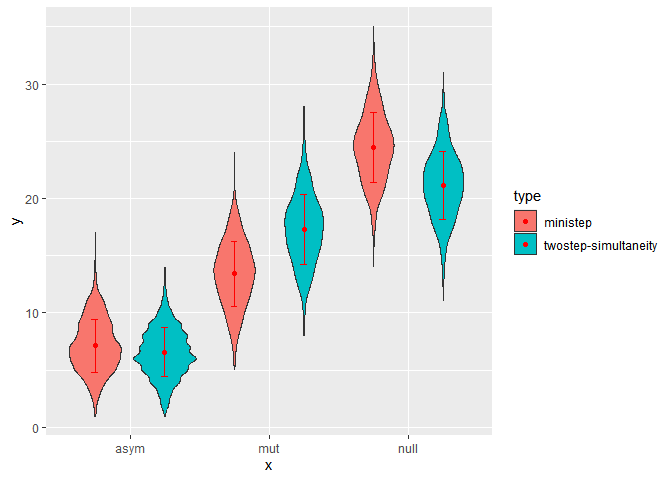
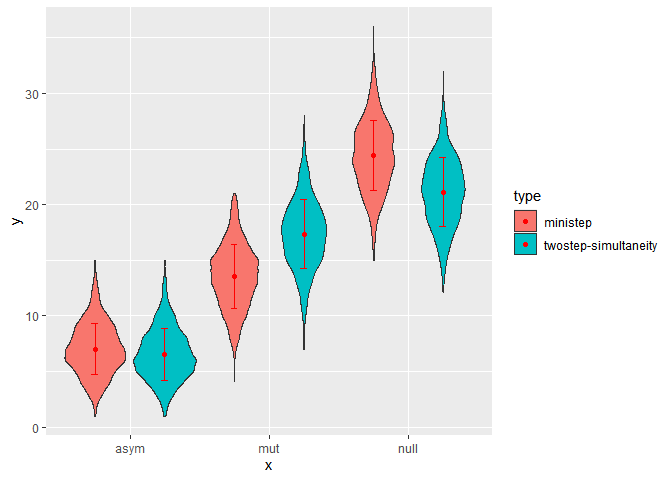
update documentation

diff --git a/README.md b/README.md
@@ -1,16 +1,16 @@
 
-# RsienaTwoStep <a href="https://jochemtolsma.github.io/RsienaTwoStep/"><img src="man/figures/logo.png" align="right" height="139" /></a>
-
 <!-- README.md is generated from README.Rmd. Please edit that file -->
 
-# RsienaTwoStep website
+<a href="https://jochemtolsma.github.io/RsienaTwoStep/"><img src="man/figures/logo.png" align="left" height="139" /></a>
+
+<br> <br> <br> <br> <br>
 
 For detailed instructions how to use the package, please see the
 [package website](https://jochemtolsma.github.io/RsienaTwoStep/).
 
 ------------------------------------------------------------------------
 
-# RsienaTwoStep
+# GOAL
 
 <!-- badges: start -->
 <!-- badges: end -->
@@ -57,7 +57,9 @@ Make sure to check out the vignettes:
 browseVignettes("RsienaTwoStep")
 ```
 
-## Example
+------------------------------------------------------------------------
+
+# Examples
 
 ABM-ministep and ABM-twostep simulations on toy data
 
@@ -66,7 +68,7 @@ library(RsienaTwoStep)
 #> Loading required package: foreach
 ```
 
-### our network
+## our network
 
 ``` r
 net1g <- igraph::graph_from_adjacency_matrix(net1, mode="directed")
@@ -79,7 +81,7 @@ plot(net1g)
 unloadNamespace("igraph") # to avoid clashes with package `sna`. 
 ```
 
-### setting up cluster
+## setting up cluster
 
 This is of course not necessary but will make the simulations a lot
 faster.
@@ -105,14 +107,12 @@ Thus if you start with a network without many (reciprocal) ties it would
 be very difficult to get more reciprocal ties in the normal ministep
 model. However, with simultaneity this should be possible.
 
-### simulate networks for three conditions
+### simulate networks for two conditions
 
 ``` r
 sims1 <- f_sims(nsims=1000, parallel=TRUE, net=net1, rate=10, statistics=list(f_degree, f_recip), parameters=c(-1,2), p2step=0, chain=FALSE) #ministep only
 
 sims2 <- f_sims(nsims=1000, parallel=TRUE, net=net1, rate=10, statistics=list(f_degree, f_recip), parameters=c(-1,2), p2step=1, chain=FALSE) #twostep-simultaneity
-
-sims3 <- f_sims(nsims=1000, parallel=TRUE, net=net1, rate=10, statistics=list(f_degree, f_recip), parameters=c(-1,2), p2step=1, dist1=2, chain=FALSE) #twostep-strict coordination
 ```
 
 ### counting dyads
@@ -120,7 +120,6 @@ sims3 <- f_sims(nsims=1000, parallel=TRUE, net=net1, rate=10, statistics=list(f_
 ``` r
 df_s1 <- f_dyads(sims=sims1, simtype="ministep") 
 df_s2 <- f_dyads(sims=sims2, simtype="twostep-simultaneity") 
-df_s3 <- f_dyads(sims=sims3, simtype="twostep-strict coordination") 
 ```
 
 ### plot results of the three dyadcensus
@@ -130,7 +129,7 @@ library(ggplot2)
 #> Warning: package 'ggplot2' was built under R version 4.2.2
 
 ## combine datasets
-df <- rbind(df_s1, df_s2, df_s2)
+df <- rbind(df_s1, df_s2)
 
 p <- ggplot(df, aes(x=x, y=y, fill=type)) + 
   geom_violin(position=position_dodge(1)) + 
@@ -148,6 +147,14 @@ p
 ```
 
 <img src="man/figures/README-unnamed-chunk-7-1.png" width="100%" />
+
+# Conclusion
+
+1.  The dyad count shows the two type of simulations lead to a different
+    dyad-count.  
+2.  If two actors are allowed to change their ties simultaneously, this
+    will lead to more reciprocal ties than when actors have to make a
+    tie-change one after each other.
 
 <!--- 
 
